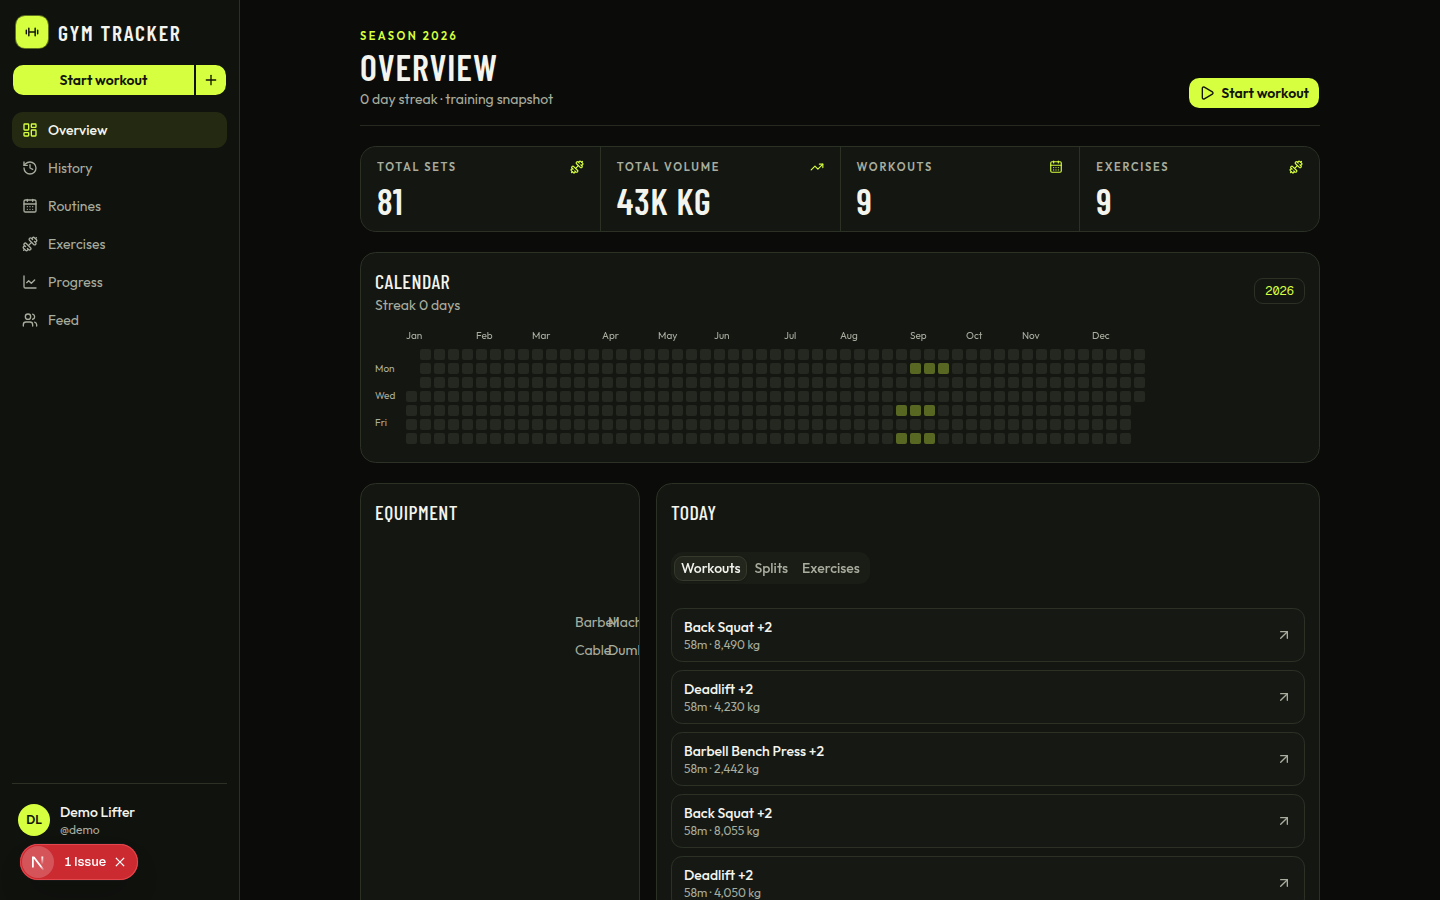
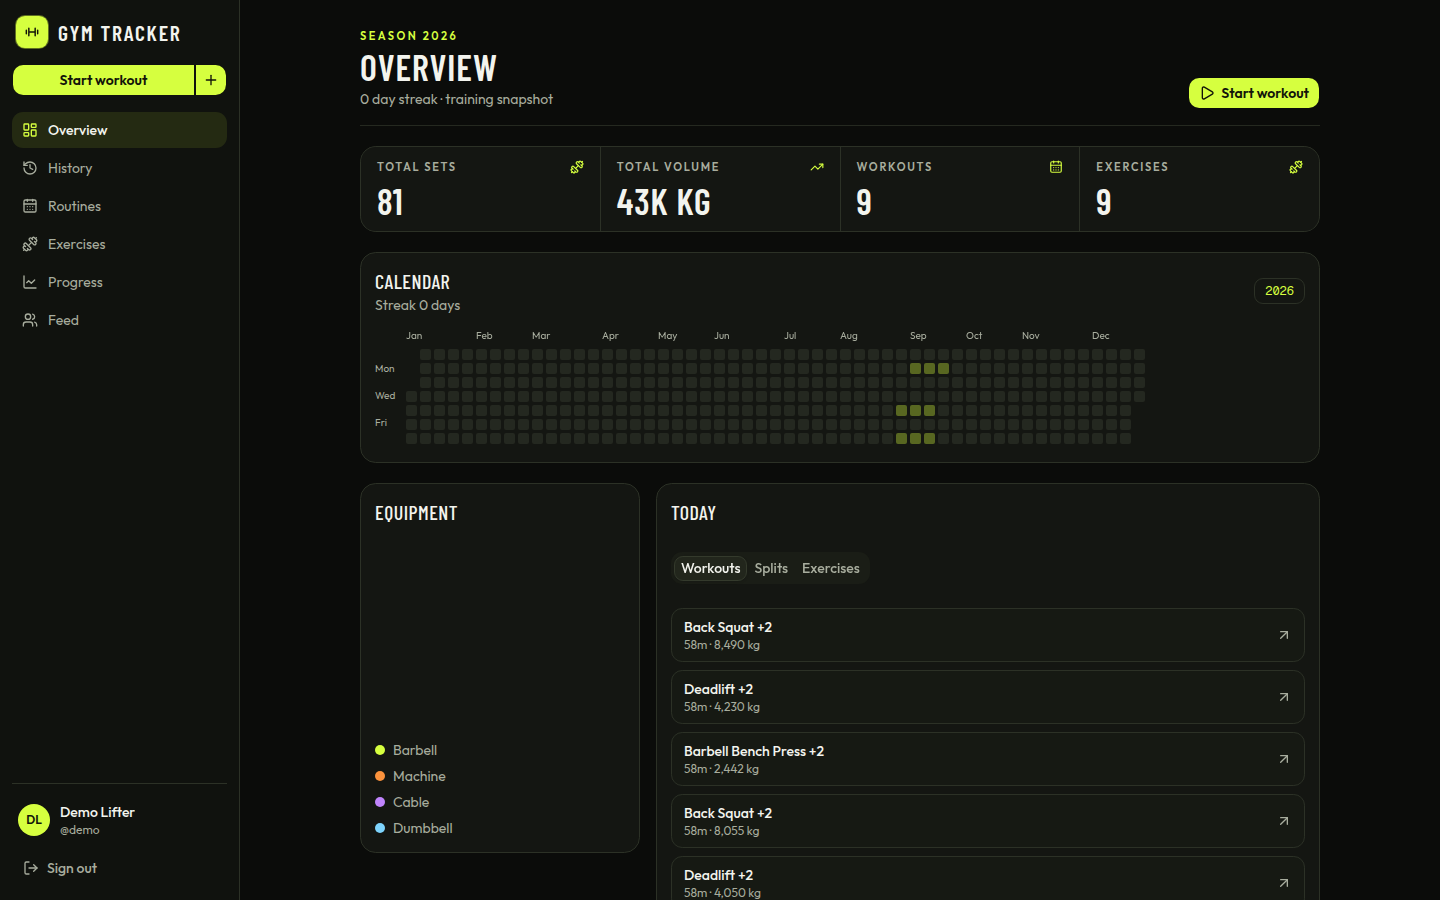
Stack equipment labels and refresh portfolio screenshots.
The overview legend was a two-column row inside a narrow card, so Barbell, Machine, Cable, and Dumbbell collided. Each name is now its own line. Screenshots were recaptured with the Next.js dev issues badge removed.

Changed region(s): [[0.25, 0.8089, 0.3125, 0.9333], [0.0, 0.9333, 0.0938, 0.9956], [0.4062, 0.6844, 0.4375, 0.7467]]

diff --git a/src/components/charts/equipment-chart.tsx b/src/components/charts/equipment-chart.tsx
@@ -22,7 +22,7 @@ export function EquipmentUsageChart({
   const total = data.reduce((sum, item) => sum + item.value, 0);
 
   return (
-    <Card className="border shadow-none">
+    <Card className="min-w-0 self-start border shadow-none">
       <CardHeader className="pb-2">
         <CardTitle className="font-heading text-xl uppercase tracking-wide">Equipment</CardTitle>
       </CardHeader>
@@ -32,8 +32,8 @@ export function EquipmentUsageChart({
             Log workouts to see equipment breakdown.
           </p>
         ) : (
-          <div className="flex flex-col items-center gap-4 sm:flex-row">
-            <div className="h-44 w-44">
+          <div className="flex flex-col gap-4">
+            <div className="mx-auto h-44 w-44 shrink-0">
               <ResponsiveContainer width="100%" height="100%">
                 <PieChart>
                   <Pie
@@ -63,17 +63,17 @@ export function EquipmentUsageChart({
                 </PieChart>
               </ResponsiveContainer>
             </div>
-            <div className="grid flex-1 grid-cols-2 gap-2 text-sm">
+            <ul className="flex list-none flex-col gap-1.5 p-0">
               {data.map((item) => (
-                <div key={item.key} className="flex items-center gap-2">
+                <li key={item.key} className="flex items-center gap-2 text-sm">
                   <span
-                    className="size-2.5 rounded-full"
+                    className="size-2.5 shrink-0 rounded-full"
                     style={{ background: COLORS[item.key] ?? COLORS.OTHER }}
                   />
                   <span className="text-muted-foreground">{item.name}</span>
-                </div>
+                </li>
               ))}
-            </div>
+            </ul>
           </div>
         )}
       </CardContent>

diff --git a/src/app/(app)/dashboard/page.tsx b/src/app/(app)/dashboard/page.tsx
@@ -93,7 +93,8 @@ export default async function DashboardPage() {
     count,
   }));
 
-  // Simple streak: consecutive days ending today or yesterday
+  // Consecutive logged days ending today, or yesterday when today is empty.
+  // Sample sessions are not back-to-back, and the latest one is two days ago, so this is 0.
   let streak = 0;
   const cursor = new Date();
   cursor.setHours(0, 0, 0, 0);
@@ -178,7 +179,7 @@ export default async function DashboardPage() {
         </CardContent>
       </Card>
 
-      <div className="grid gap-4 xl:grid-cols-[280px_1fr]">
+      <div className="grid gap-4 xl:grid-cols-[minmax(0,17.5rem)_minmax(0,1fr)]">
         <EquipmentUsageChart data={equipmentData} />
 
         <Card className="border shadow-none">
